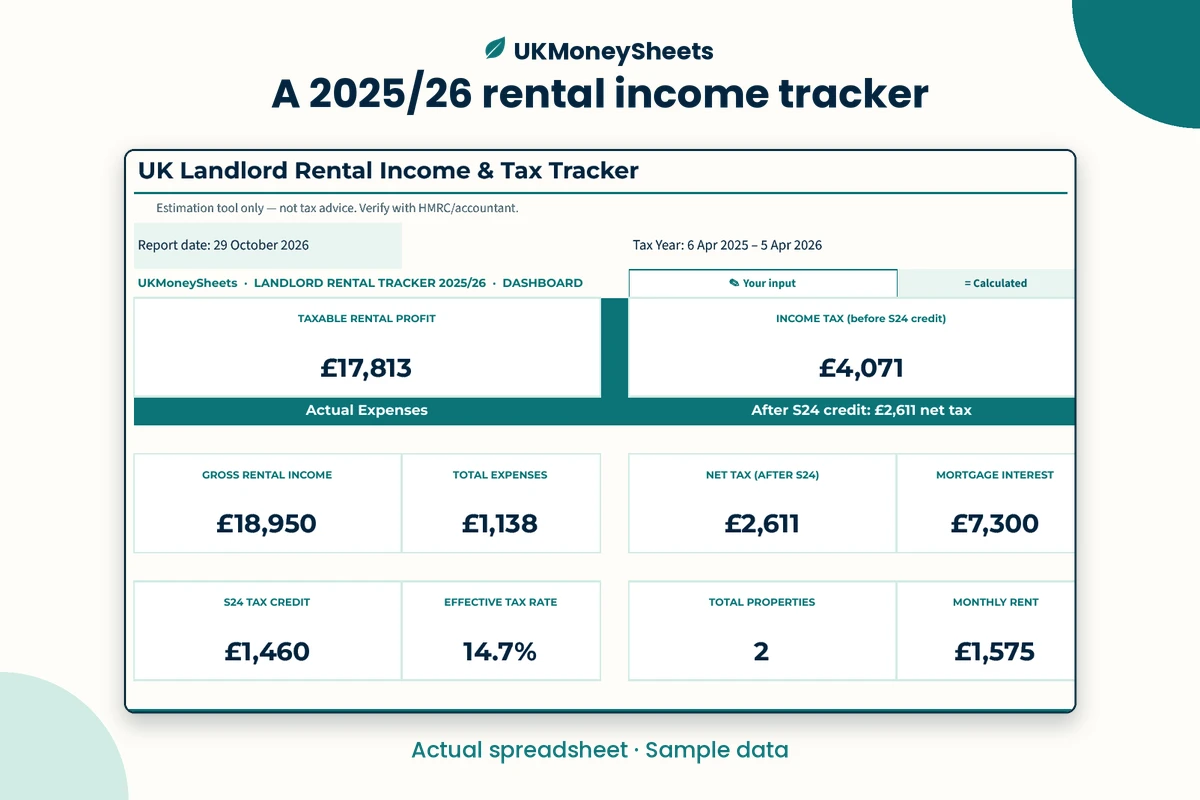
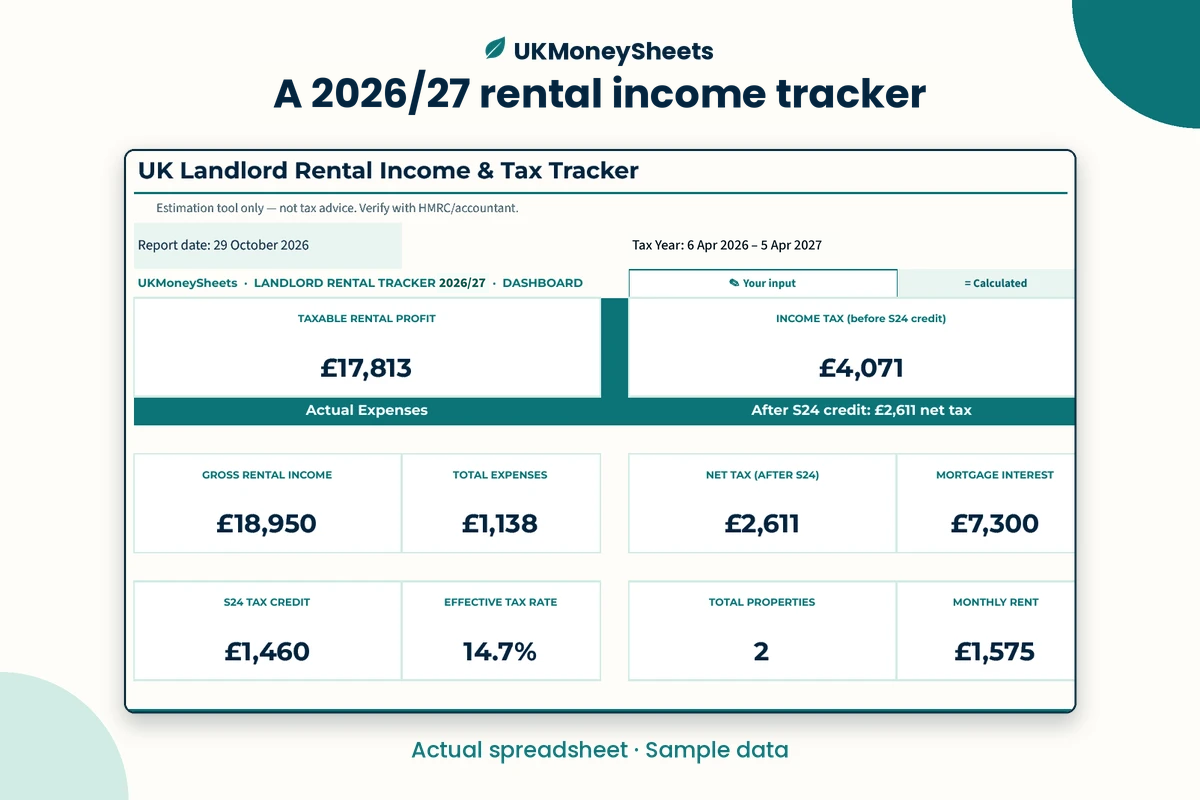
Landlord in-guide image 1: Nia's 2026/27 version, ?v=4

Changed region(s): [[0.2158, 0.0938, 0.7708, 0.1562], [0.5242, 0.2812, 0.6783, 0.3125], [0.37, 0.3438, 0.4008, 0.375]]

diff --git a/src/lib/guides.ts b/src/lib/guides.ts
@@ -467,8 +467,8 @@ export const guides: GuideMeta[] = [
     showHeaderImage: false,
     inGuideImages: {
       afterIntro: {
-        src: "/guides/inguide/uk-landlord-section-24/1.webp?v=3",
-        alt: "Real Google Sheets screenshot: a 2025/26 rental income tracker, sample data",
+        src: "/guides/inguide/uk-landlord-section-24/1.webp?v=4",
+        alt: "Real Google Sheets screenshot: a 2026/27 rental income tracker, sample data",
       },
       nearChecklist: {
         src: "/guides/inguide/uk-landlord-section-24/2.webp",
